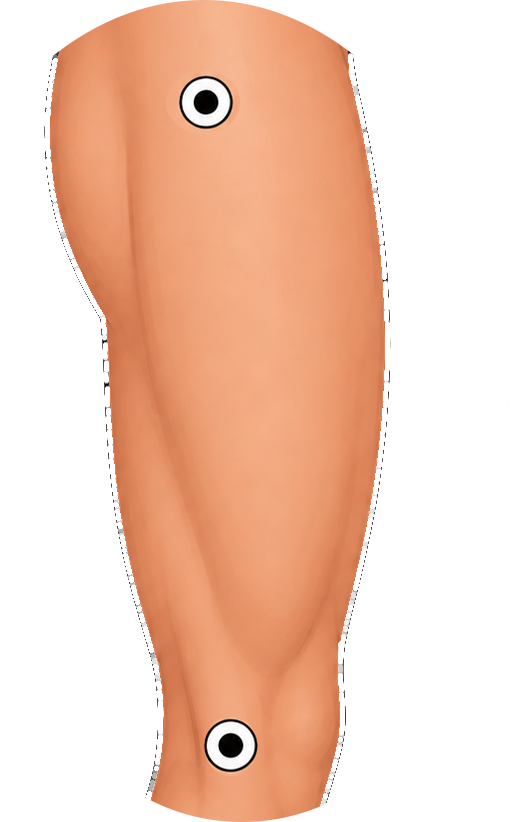
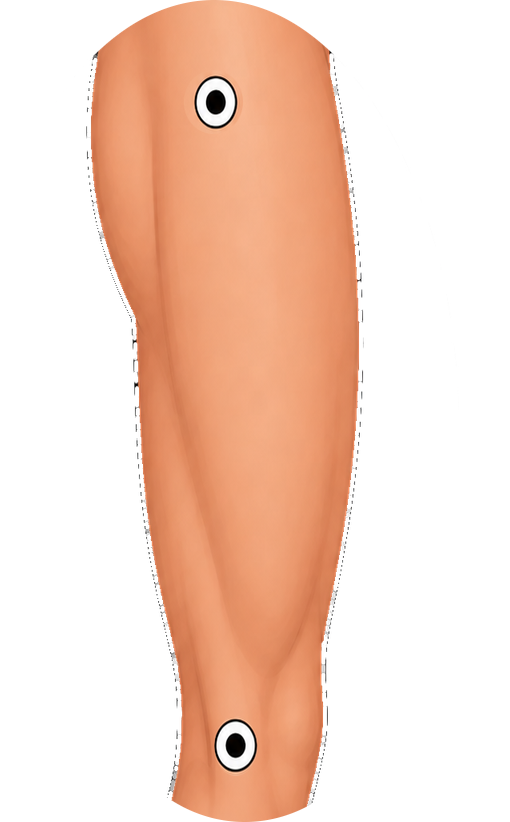
Refine plots and restore total torques

diff --git a/src/squat_gui/app.py b/src/squat_gui/app.py
@@ -25,6 +25,7 @@ DETAILED_PLOT_CHOICE = "couples detailles"
 PLOT_CHOICES = [
     "cinematique articulaire",
     "centre de masse",
+    "force reaction sol",
     "couples articulaires",
     "couples normalises",
     DETAILED_PLOT_CHOICE,
@@ -32,7 +33,13 @@ PLOT_CHOICES = [
 ]
 DEFAULT_PLOT_CHOICES = [choice for choice in PLOT_CHOICES if choice != DETAILED_PLOT_CHOICE]
 
-JOINT_COLORS = {"cheville": "#2e7d54", "genou": "#b46d22", "hanche": "#6d5ea8", "CoM x": "#2a8ca6", "CoM y": "#8a5a22"}
+JOINT_COLORS = {
+    "cheville": "#2e7d54",
+    "genou": "#b46d22",
+    "hanche": "#6d5ea8",
+    "horizontal": "#2a8ca6",
+    "vertical": "#8a5a22",
+}
 FORCE_DRAW_SCALE = 3500.0 / 3.0
 CANVAS_BG = "#fbfcf9"
 ALERT_BG = "#ffe7e3"
@@ -74,8 +81,8 @@ class SquatGui(tk.Tk):
         }
         self.show_checkbuttons: dict[str, ttk.Checkbutton] = {}
         self.com_component_vars = {
-            "x": tk.BooleanVar(value=True),
-            "y": tk.BooleanVar(value=True),
+            "horizontal": tk.BooleanVar(value=True),
+            "vertical": tk.BooleanVar(value=True),
         }
         self.quantity_controls: list[tk.Widget] = []
         self.com_controls: list[tk.Widget] = []
@@ -91,6 +98,7 @@ class SquatGui(tk.Tk):
         self.refined_sprites_var = tk.BooleanVar(value=False)
         self.angle_adapt_var = tk.BooleanVar(value=True)
         self.subplot_mode_var = tk.BooleanVar(value=True)
+        self.plot_title_var = tk.StringVar(value="")
         self.status_var = tk.StringVar(value=detect_optional_backends().message)
 
         self._build_layout()
@@ -111,7 +119,7 @@ class SquatGui(tk.Tk):
         root.columnconfigure(1, weight=1)
         root.columnconfigure(2, weight=1)
         root.rowconfigure(0, weight=1)
-        root.rowconfigure(1, weight=2)
+        root.rowconfigure(2, weight=2)
 
         left = ttk.Frame(root)
         left.grid(row=0, column=0, sticky="nsew", padx=(0, 8))
@@ -162,12 +170,17 @@ class SquatGui(tk.Tk):
         quantity_menu.grid(row=2, column=0, columnspan=2, sticky="ew", padx=4, pady=(6, 2))
         self.quantity_controls.append(quantity_menu)
         for index, name in enumerate(self.com_component_vars):
-            checkbutton = ttk.Checkbutton(plot_box, text=f"CoM {name}", variable=self.com_component_vars[name], command=self.redraw)
+            checkbutton = ttk.Checkbutton(plot_box, text=name, variable=self.com_component_vars[name], command=self.redraw)
             checkbutton.grid(row=2, column=index + 2, sticky="w", padx=4, pady=(6, 2))
             self.com_controls.append(checkbutton)
         for control in self.com_controls:
             control.state(["disabled"])
-        ttk.Checkbutton(plot_box, text="3 subplots", variable=self.subplot_mode_var, command=self.redraw).grid(row=3, column=0, columnspan=2, sticky="w", padx=4, pady=(4, 2))
+        ttk.Checkbutton(
+            plot_box,
+            text="3 subplots",
+            variable=self.subplot_mode_var,
+            command=self.update_plot_choices,
+        ).grid(row=3, column=0, columnspan=2, sticky="w", padx=4, pady=(4, 2))
         ttk.Checkbutton(
             plot_box,
             text="refined",
@@ -183,7 +196,7 @@ class SquatGui(tk.Tk):
         ttk.Button(file_box, text="Load JSON", command=self.load_json).grid(row=0, column=1, sticky="ew", padx=(3, 0))
 
         table_box = ttk.LabelFrame(root, text="Conditions enregistrees")
-        table_box.grid(row=1, column=0, sticky="nsew", padx=(0, 8), pady=(8, 0))
+        table_box.grid(row=2, column=0, sticky="nsew", padx=(0, 8), pady=(8, 0))
         table_box.rowconfigure(0, weight=1)
         table_box.columnconfigure(0, weight=1)
         columns = ("numero", "squat", "charge", "duree", "tibia", "cuisse", "tronc", "cheville", "genou", "hanche")
@@ -242,18 +255,26 @@ class SquatGui(tk.Tk):
         self.animation_canvas.grid(row=0, column=0, sticky="nsew")
         self.animation_canvas.bind("<Configure>", self.schedule_redraw)
 
-        playback = ttk.Frame(right)
-        playback.grid(row=1, column=0, sticky="ew", pady=(8, 0))
+        plot_header = ttk.Frame(root)
+        plot_header.grid(row=1, column=1, sticky="ew", padx=(0, 8), pady=(8, 0))
+        ttk.Label(
+            plot_header,
+            textvariable=self.plot_title_var,
+            font=("Helvetica", 11, "bold"),
+        ).pack(anchor="w")
+
+        playback = ttk.Frame(root)
+        playback.grid(row=1, column=2, sticky="ew", pady=(8, 0))
         playback.columnconfigure(1, weight=1)
         self.play_button = ttk.Button(playback, text="▶", command=self.toggle_play, width=4)
         self.play_button.grid(row=0, column=0, padx=(0, 8))
         ttk.Scale(playback, variable=self.frame_var, from_=0, to=self.frame_count - 1, orient="horizontal", command=lambda _value: self.redraw()).grid(row=0, column=1, sticky="ew")
 
         self.plot_canvas = tk.Canvas(root, bg="#ffffff", highlightthickness=1, highlightbackground="#c9d1c7")
-        self.plot_canvas.grid(row=1, column=1, columnspan=2, sticky="nsew", pady=(8, 0))
+        self.plot_canvas.grid(row=2, column=1, columnspan=2, sticky="nsew", pady=(8, 0))
         self.plot_canvas.bind("<Configure>", self.schedule_redraw)
 
-        ttk.Label(root, textvariable=self.status_var).grid(row=2, column=0, columnspan=3, sticky="ew", pady=(8, 0))
+        ttk.Label(root, textvariable=self.status_var).grid(row=3, column=0, columnspan=3, sticky="ew", pady=(8, 0))
 
     def _add_scale(self, parent: ttk.Frame, label: str, var: tk.DoubleVar, start: float, end: float, resolution: float, column: int) -> None:
         box = ttk.LabelFrame(parent, text=label)
@@ -396,7 +417,9 @@ class SquatGui(tk.Tk):
             for name, value in dict(settings.get("show_joints", {})).items():
                 if name in self.show_vars:
                     self.show_vars[name].set(bool(value))
+            component_aliases = {"x": "horizontal", "y": "vertical"}
             for name, value in dict(settings.get("show_com_components", {})).items():
+                name = component_aliases.get(str(name), str(name))
                 if name in self.com_component_vars:
                     self.com_component_vars[name].set(bool(value))
             self.show_torque_bounds_var.set(bool(settings.get("show_torque_bounds", self.show_torque_bounds_var.get())))
@@ -529,13 +552,13 @@ class SquatGui(tk.Tk):
     def on_plot_choice_changed(self) -> None:
         choice = self.plot_choice.get()
         quantity_plot = choice in ("cinematique articulaire", "centre de masse")
-        com_plot = choice == "centre de masse"
+        component_plot = choice in ("centre de masse", "force reaction sol")
         for checkbutton in self.show_checkbuttons.values():
-            checkbutton.state(["disabled"] if com_plot else ["!disabled"])
+            checkbutton.state(["disabled"] if component_plot else ["!disabled"])
         for control in self.quantity_controls:
             control.state(["!disabled"] if quantity_plot else ["disabled"])
         for control in self.com_controls:
-            control.state(["!disabled"] if com_plot else ["disabled"])
+            control.state(["!disabled"] if component_plot else ["disabled"])
         self.redraw()
 
     def world_to_canvas(self, canvas: tk.Canvas, point: tuple[float, float], bounds: tuple[float, float, float, float]) -> tuple[float, float]:
@@ -839,6 +862,7 @@ class SquatGui(tk.Tk):
         width = max(1, canvas.winfo_width())
         height = max(1, canvas.winfo_height())
         choice = self.plot_choice.get()
+        self.plot_title_var.set(f"{choice} ({self.plot_unit(choice)})")
         datasets = self.plot_datasets()
         plotted = [
             {
@@ -956,7 +980,6 @@ class SquatGui(tk.Tk):
         panel_width = (width - pad_left - pad_right - gap * (len(panels) - 1)) / len(panels)
         unit = self.plot_unit(choice)
         tmin, tmax = self.plot_time_bounds(plotted)
-        canvas.create_text(16, 12, text=f"{choice} ({unit})", anchor="nw", fill="#22312a", font=("Helvetica", 12, "bold"))
         for panel_index, panel_name in enumerate(panels):
             x0 = pad_left + panel_index * (panel_width + gap)
             x1 = x0 + panel_width
@@ -1172,6 +1195,8 @@ class SquatGui(tk.Tk):
             return {"position": "deg", "vitesse": "deg/s", "acceleration": "deg/s2"}[self.quantity_var.get()]
         if choice == "centre de masse":
             return {"position": "m", "vitesse": "m/s", "acceleration": "m/s2"}[self.quantity_var.get()]
+        if choice == "force reaction sol":
+            return "N"
         if choice in ("couples articulaires", "couples detailles"):
             return "Nm"
         if choice == "couples normalises":
@@ -1379,6 +1404,8 @@ class SquatGui(tk.Tk):
             values = self.joint_kinematic_series(states)
         elif choice == "centre de masse":
             return self.com_plot_series(results)
+        elif choice == "force reaction sol":
+            return self.ground_reaction_plot_series(results)
         elif choice == "couples articulaires":
             values = {joint: [result.torques[joint] for result in results] for joint in ("cheville", "genou", "hanche")}
         elif choice == "couples normalises":
@@ -1432,11 +1459,18 @@ class SquatGui(tk.Tk):
             "vitesse": [result.com_velocity for result in results],
             "acceleration": [result.com_acceleration for result in results],
         }[quantity]
+        return self.horizontal_vertical_series(source)
+
+    def ground_reaction_plot_series(self, results: list[DynamicsResult] | None = None) -> dict[str, list[float]]:
+        results = results or self.results
+        return self.horizontal_vertical_series([result.ground_reaction for result in results])
+
+    def horizontal_vertical_series(self, source: list[tuple[float, float]]) -> dict[str, list[float]]:
         data: dict[str, list[float]] = {}
-        if self.com_component_vars["x"].get():
-            data["CoM x"] = [value[0] for value in source]
-        if self.com_component_vars["y"].get():
-            data["CoM y"] = [value[1] for value in source]
+        if self.com_component_vars["horizontal"].get():
+            data["horizontal"] = [value[0] for value in source]
+        if self.com_component_vars["vertical"].get():
+            data["vertical"] = [value[1] for value in source]
         return data
 
     def torque_bound_series(self) -> dict[str, list[float]]:

diff --git a/tests/test_app_plot.py b/tests/test_app_plot.py
@@ -20,6 +20,7 @@ class PlotSeriesTests(unittest.TestCase):
         self.assertNotIn("positions articulaires", PLOT_CHOICES)
         self.assertNotIn("vitesses articulaires", PLOT_CHOICES)
         self.assertNotIn("accelerations articulaires", PLOT_CHOICES)
+        self.assertIn("couples detailles", PLOT_CHOICES)
 
     def gui_without_tk(self):
         anthro = Anthropometry()
@@ -37,7 +38,7 @@ class PlotSeriesTests(unittest.TestCase):
             "hanche": FakeVar(True),
         }
         gui.quantity_var = FakeVar("vitesse")
-        gui.com_component_vars = {"x": FakeVar(True), "y": FakeVar(False)}
+        gui.com_component_vars = {"horizontal": FakeVar(True), "vertical": FakeVar(False)}
         return gui
 
     def test_kinematic_series_do_not_include_com(self):
@@ -49,8 +50,17 @@ class PlotSeriesTests(unittest.TestCase):
     def test_com_series_uses_quantity_and_components(self):
         gui = self.gui_without_tk()
 
-        self.assertEqual(list(gui.plot_series("centre de masse")), ["CoM x"])
+        self.assertEqual(list(gui.plot_series("centre de masse")), ["horizontal"])
         self.assertEqual(gui.plot_unit("centre de masse"), "m/s")
+
+    def test_ground_reaction_series_uses_horizontal_vertical_components(self):
+        gui = self.gui_without_tk()
+
+        series = gui.plot_series("force reaction sol")
+
+        self.assertEqual(list(series), ["horizontal"])
+        self.assertEqual(gui.plot_unit("force reaction sol"), "N")
+        self.assertEqual(series["horizontal"][0], gui.results[0].ground_reaction[0])
 
     def test_normalized_torque_series_uses_effort_ratios(self):
         gui = self.gui_without_tk()

diff --git a/tests/test_dynamics.py b/tests/test_dynamics.py
@@ -73,7 +73,7 @@ class DynamicsTests(unittest.TestCase):
                 concentric_result.effort_ratios[joint] / 1.35,
             )
 
-    def test_torque_components_sum_to_net_joint_torque(self) -> None:
+    def test_torque_components_keep_total_and_contact_terms(self) -> None:
         anthro = Anthropometry(bar_mass=20.0)
         _, results = simulate(
             anthro,
@@ -87,11 +87,11 @@ class DynamicsTests(unittest.TestCase):
         for result in results:
             for joint in ("cheville", "genou", "hanche"):
                 components = result.torque_components[joint]
+                self.assertAlmostEqual(result.torques[joint], components["total"])
                 self.assertAlmostEqual(
-                    result.torques[joint],
+                    components["inertiels_non_lineaires"],
                     components["total"] - components["contact"],
                 )
-                self.assertAlmostEqual(result.torques[joint], components["inertiels_non_lineaires"])
 
     def test_angle_adaptation_uses_anderson_coefficients(self) -> None:
         reference = anderson_reference_max_torques(70.0, 1.70)

diff --git a/src/squat_gui/dynamics.py b/src/squat_gui/dynamics.py
@@ -271,7 +271,7 @@ def available_joint_torque_limits(
     }
 
 
-def _joint_torques_from_components(
+def _inertial_nonlinear_from_components(
     total: dict[str, float],
     contact: dict[str, float],
 ) -> dict[str, float]:
@@ -316,12 +316,13 @@ def inverse_dynamics(
         total_abs = tuple(inertial_abs[i] + nle_abs[i] for i in range(3))
         inverse_dynamics_total = _joint_from_absolute(total_abs)
     contact = _contact_moments(state, reaction, cop_x)
-    torques = _joint_torques_from_components(inverse_dynamics_total, contact)
+    inertial_nonlinear = _inertial_nonlinear_from_components(inverse_dynamics_total, contact)
+    torques = inverse_dynamics_total
     components = {
         joint: {
             "total": inverse_dynamics_total[joint],
             "contact": contact[joint],
-            "inertiels_non_lineaires": torques[joint],
+            "inertiels_non_lineaires": inertial_nonlinear[joint],
         }
         for joint in torques
     }

diff --git a/README.md b/README.md
@@ -486,7 +486,7 @@ total = inverse_dynamics(q, qdot, qddot)
 inertiels_non_lineaires = total - contact
 ```
 
-Dans le GUI, `total` vient de `biorbd_model.InverseDynamics(q, qdot, qddot)` quand `biorbd` est disponible. Le terme `contact` represente l'effet de la reaction au sol estimee au CoP. La courbe `inertiels_non_lineaires` est simplement `total - contact`, ce qui evite d'afficher separement `Mqddot` et `NLeffects`. Pour l'instant, le terme de contact reste calcule dans le code du GUI, car le `.bioMod` actuel garde le pied fixe au sol; une integration encore plus propre consisterait a passer un `ExternalForceSet` a `InverseDynamics(..., externalForces)` dans un modele avec base/contacts compatibles.
+Dans le GUI, `total` vient de `biorbd_model.InverseDynamics(q, qdot, qddot)` quand `biorbd` est disponible. C'est ce `total` qui est utilise pour les courbes de couples articulaires, les puissances, les ratios d'effort et le tableau des conditions. Le terme `contact` represente l'effet de la reaction au sol estimee au CoP. La courbe `inertiels_non_lineaires` est simplement `total - contact`, ce qui evite d'afficher separement `Mqddot` et `NLeffects`. Pour l'instant, le terme de contact reste calcule dans le code du GUI, car le `.bioMod` actuel garde le pied fixe au sol; une integration encore plus propre consisterait a passer un `ExternalForceSet` a `InverseDynamics(..., externalForces)` dans un modele avec base/contacts compatibles.
 
 Pour utiliser directement le centre de pression/ZMP depuis `biorbd`, il faut une version de `biorbd` qui expose `Model.CalcZeroMomentPoint(...)`. Une PR locale a ete preparee pour cela:
 
